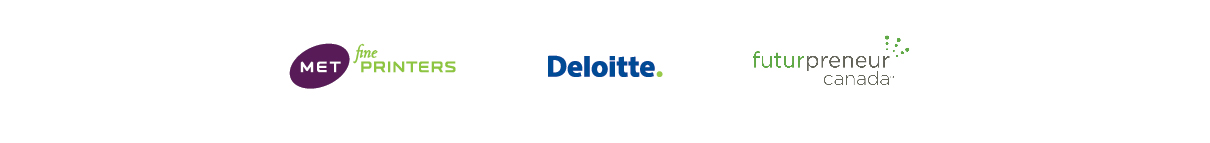
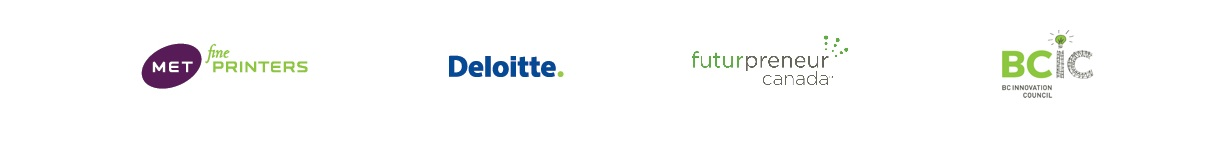
Moved sponsors to includes, added BCIC to community tier

diff --git a/index.html b/index.html
@@ -475,25 +475,7 @@ Moderator: Meena Sandhu, Marketing Strategist and Speaker</p>
           </li>
         </ul>
       </section>
-      <section class='sponsors'>
-        <h3>Our Sponsors</h3>
-        <a target='_blank' href='http://www.startupweekvancouver.ca/sponsor/'>
-          <i class='icon-icecream'></i>
-          Become a Sponsor
-        </a>
-        <div class='row'>
-            <div class='line'><span>Presenting Sponsor</span></div>
-            <img src='images/SWV_sponsors_presenting.jpg' />
-        </div>
-        <div class='row'>
-          <div class='line'><span>Premiere Sponsors</span></div>
-          <img src='images/SWV_sponsors_premiere.jpg' />
-        </div>
-        <div class='row'>
-          <div class='line'><span>Community Sponsors</span></div>
-          <img src='images/SWV_sponsors_community.jpg' />
-        </div>
-      </section>
+{% include sponsors.html %}
       <section class='startup-jobs' id='jobs'>
         <h3>Startup Jobs</h3>
         <div class='row'>

diff --git a/events.html b/events.html
@@ -37,25 +37,7 @@
         <p>Calendar embedded via <a href="https://www.startupdigest.com/digests/vancouver">Startup Digest Vancouver</a>.</p>
 
       </section>
-      <section class='sponsors'>
-        <h3>Our Sponsors</h3>
-        <a target='_blank' href='http://www.startupweekvancouver.ca/sponsor/'>
-          <i class='icon-icecream'></i>
-          Become a Sponsor
-        </a>
-        <div class='row'>
-            <div class='line'><span>Presenting Sponsor</span></div>
-            <img src='images/SWV_sponsors_presenting.jpg' />
-        </div>
-        <div class='row'>
-          <div class='line'><span>Premiere Sponsors</span></div>
-          <img src='images/SWV_sponsors_premiere.jpg' />
-        </div>
-        <div class='row'>
-          <div class='line'><span>Community Sponsors</span></div>
-          <img src='images/SWV_sponsors_community.jpg' />
-        </div>
-      </section>
+{% include sponsors.html %}
 
     </div>
 

diff --git a/_includes/sponsors.html b/_includes/sponsors.html
@@ -1,0 +1,21 @@
+<!-- SPONSORS -->
+      <section class='sponsors'>
+        <h3>Our Sponsors</h3>
+        <a target='_blank' href='http://www.startupweekvancouver.ca/sponsor/'>
+          <i class='icon-icecream'></i>
+          Become a Sponsor
+        </a>
+        <div class='row'>
+            <div class='line'><span>Presenting Sponsor</span></div>
+            <img src='images/SWV_sponsors_presenting.jpg' />
+        </div>
+        <div class='row'>
+          <div class='line'><span>Premiere Sponsors</span></div>
+          <img src='images/SWV_sponsors_premiere.jpg' />
+        </div>
+        <div class='row'>
+          <div class='line'><span>Community Sponsors</span></div>
+          <img src='images/SWV_sponsors_community.jpg' />
+        </div>
+      </section>
+<!-- /end SPONSORS -->
